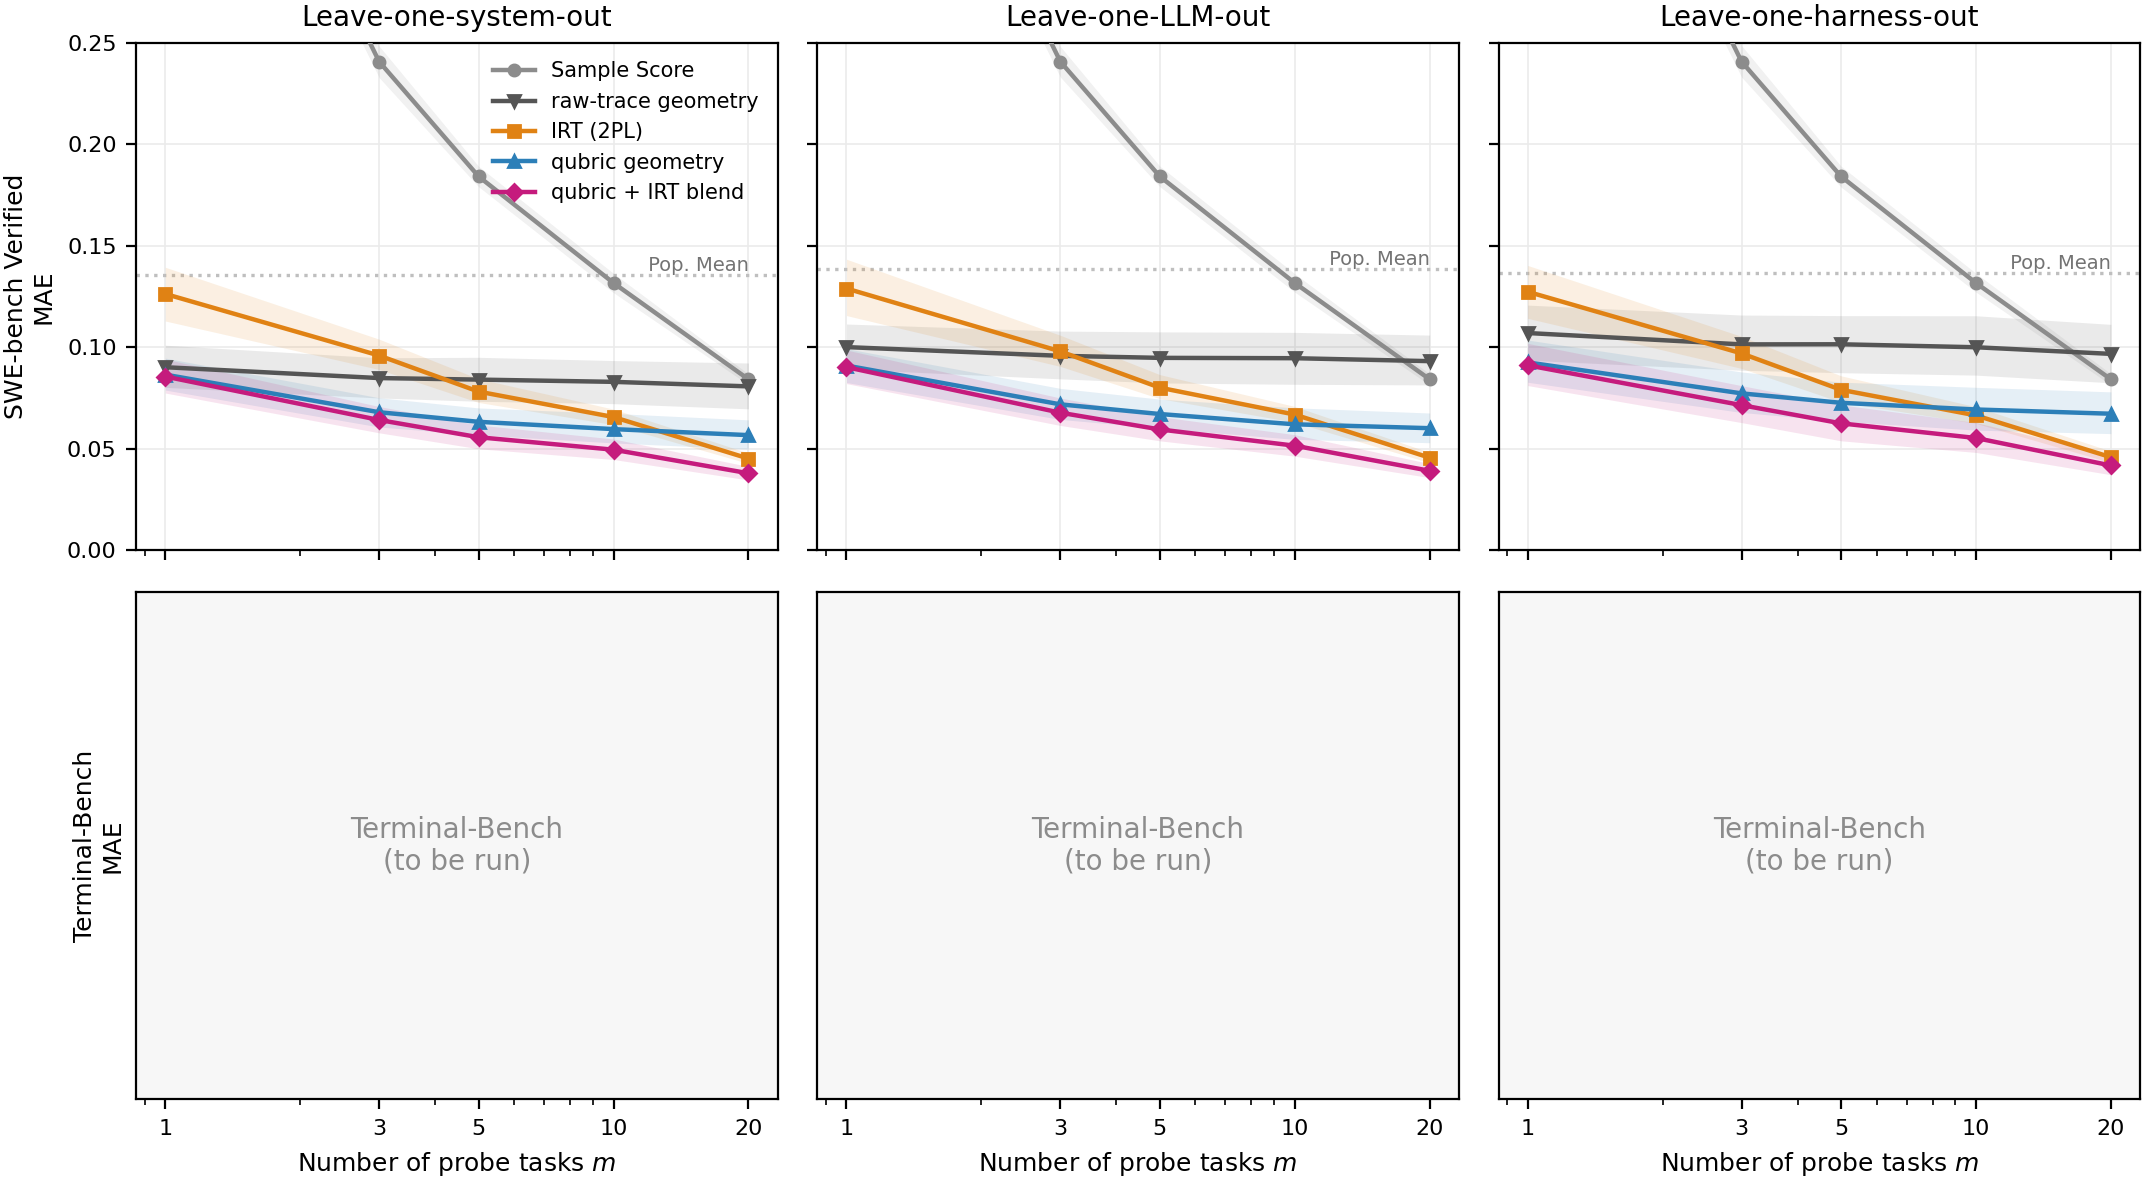
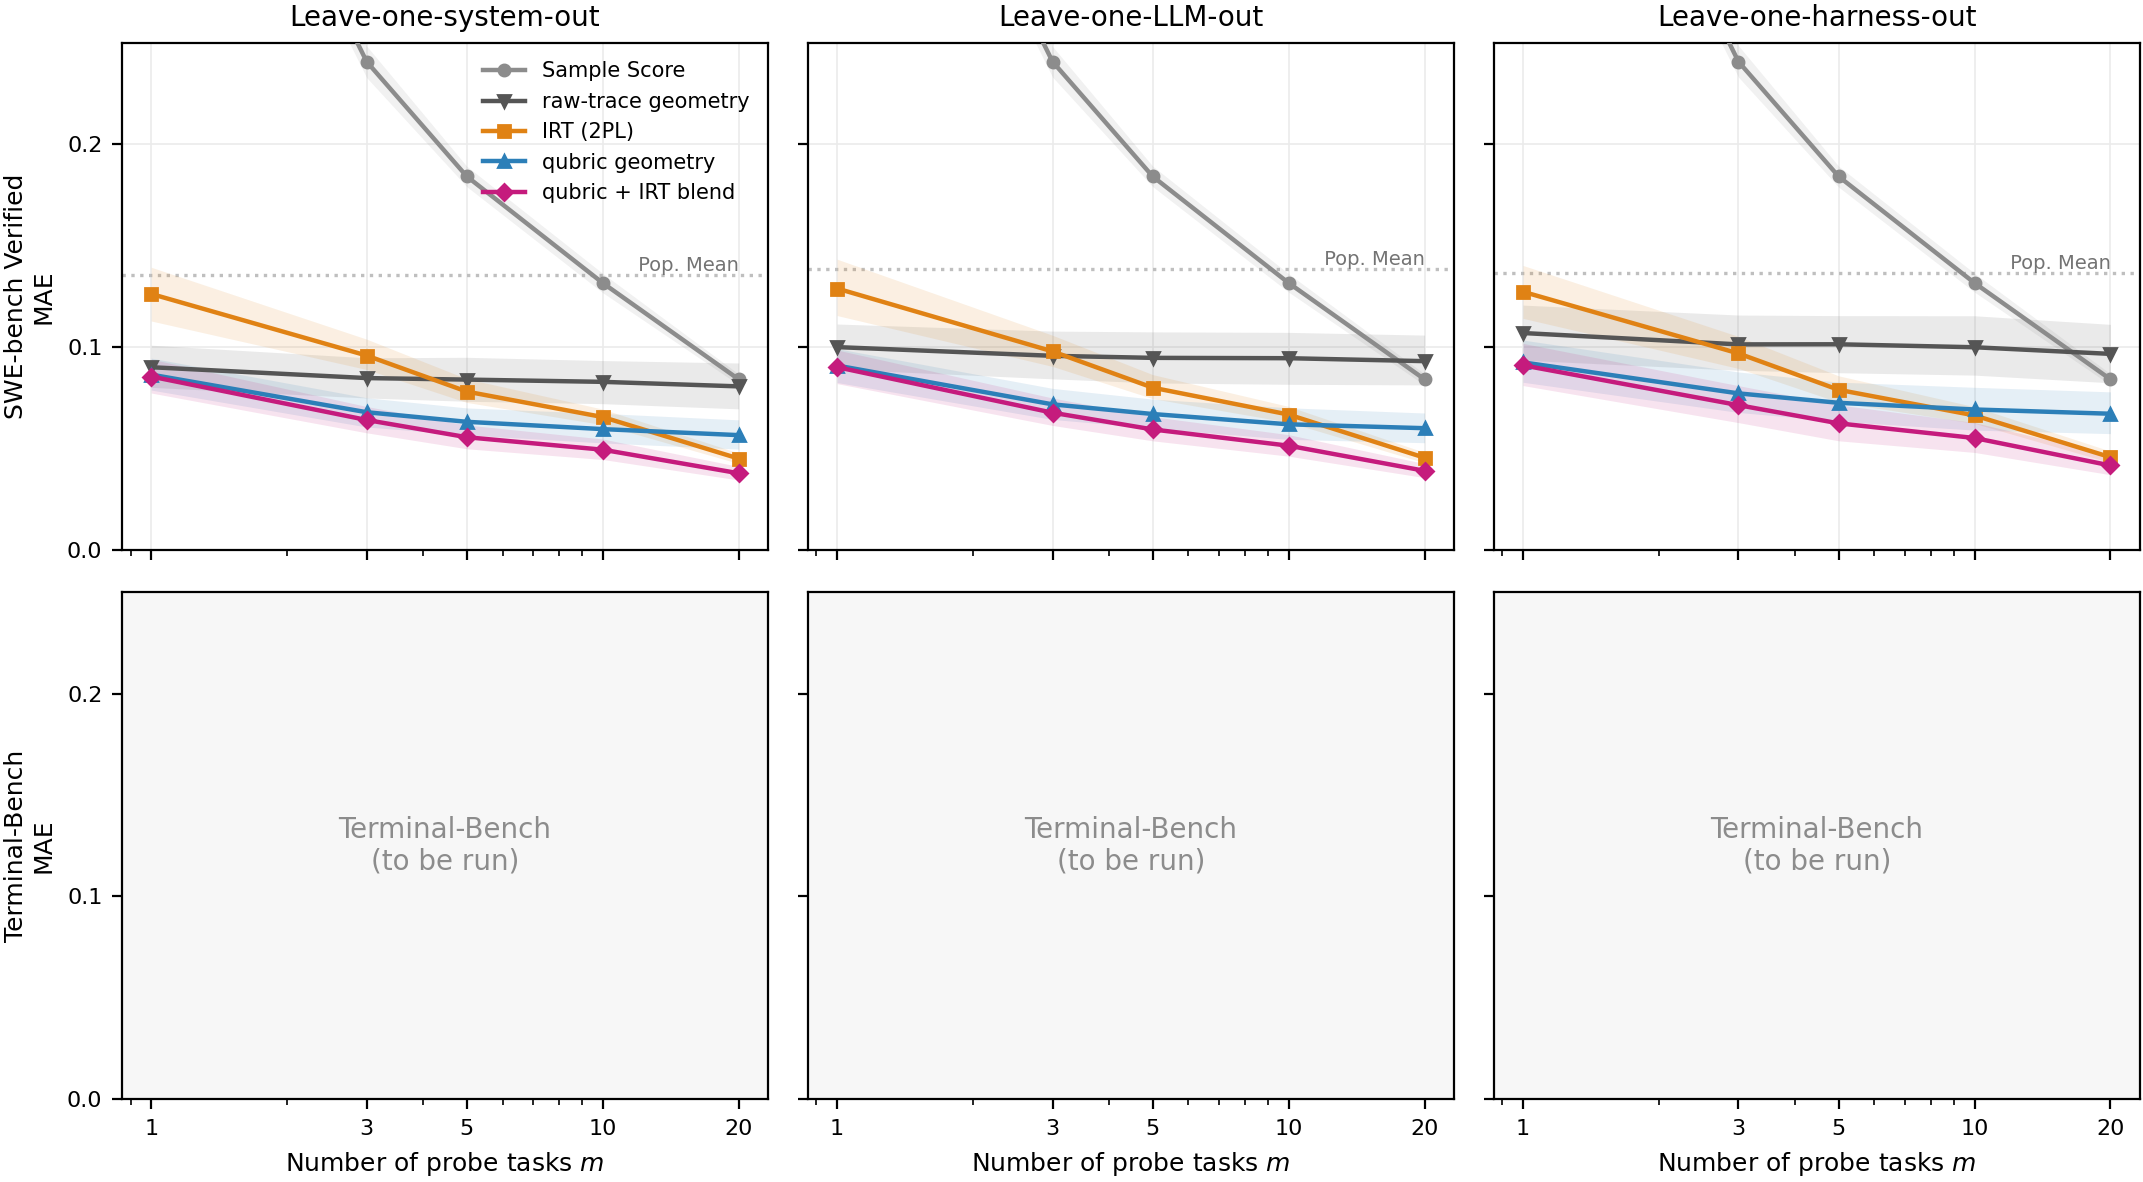
fig3 (MAE): y ticks 0/0.1/0.2 on both rows
Claude-Session: https://claude.ai/code/session_01RGusFFXzoPTkSKgzzDLjNv

diff --git a/scripts/fig_protocols.py b/scripts/fig_protocols.py
@@ -395,6 +395,7 @@ def main_render(src=OUT_JSON, dst=OUT_PNG):
         ax.set_axisbelow(True)
     axes[0, 0].set_ylabel('SWE-bench Verified\nMAE', fontsize=9)
     axes[0, 0].set_ylim(0, .25)
+    axes[0, 0].set_yticks([0, .1, .2])
     for c in range(3):
         ax = axes[1, c]
         ax.set_facecolor('.97')
@@ -403,7 +404,8 @@ def main_render(src=OUT_JSON, dst=OUT_PNG):
         ax.set_xscale('log')
         ax.set_xticks(ms)
         ax.set_xticklabels(ms)
-        ax.set_yticks([])
+        ax.set_ylim(0, .25)
+        ax.set_yticks([0, .1, .2])
         ax.tick_params(labelsize=8)
         ax.set_xlabel('Number of probe tasks $m$', fontsize=9)
     axes[1, 0].set_ylabel('Terminal-Bench\nMAE', fontsize=9)
